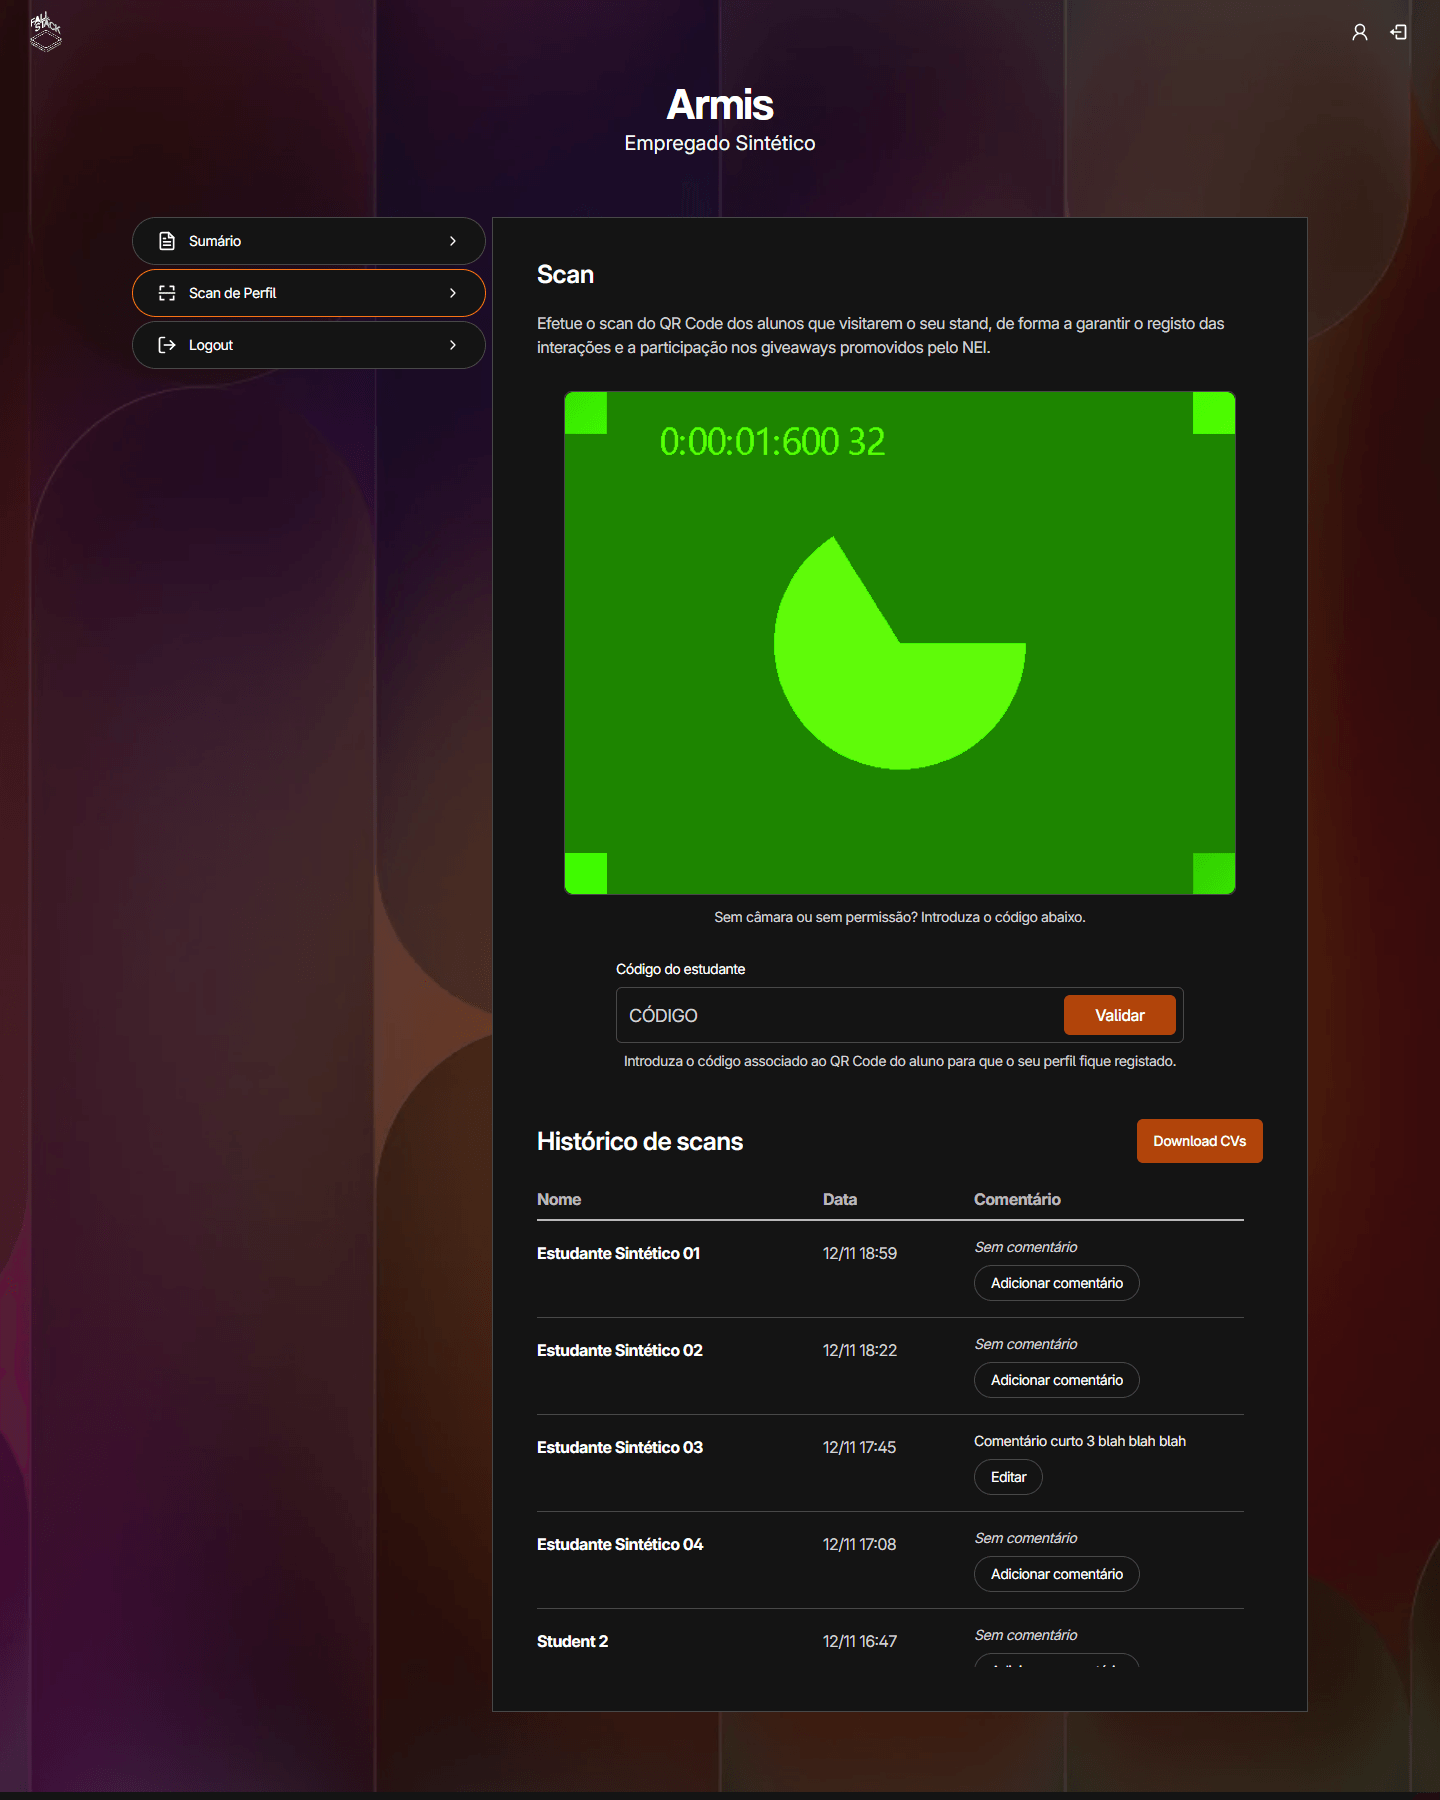
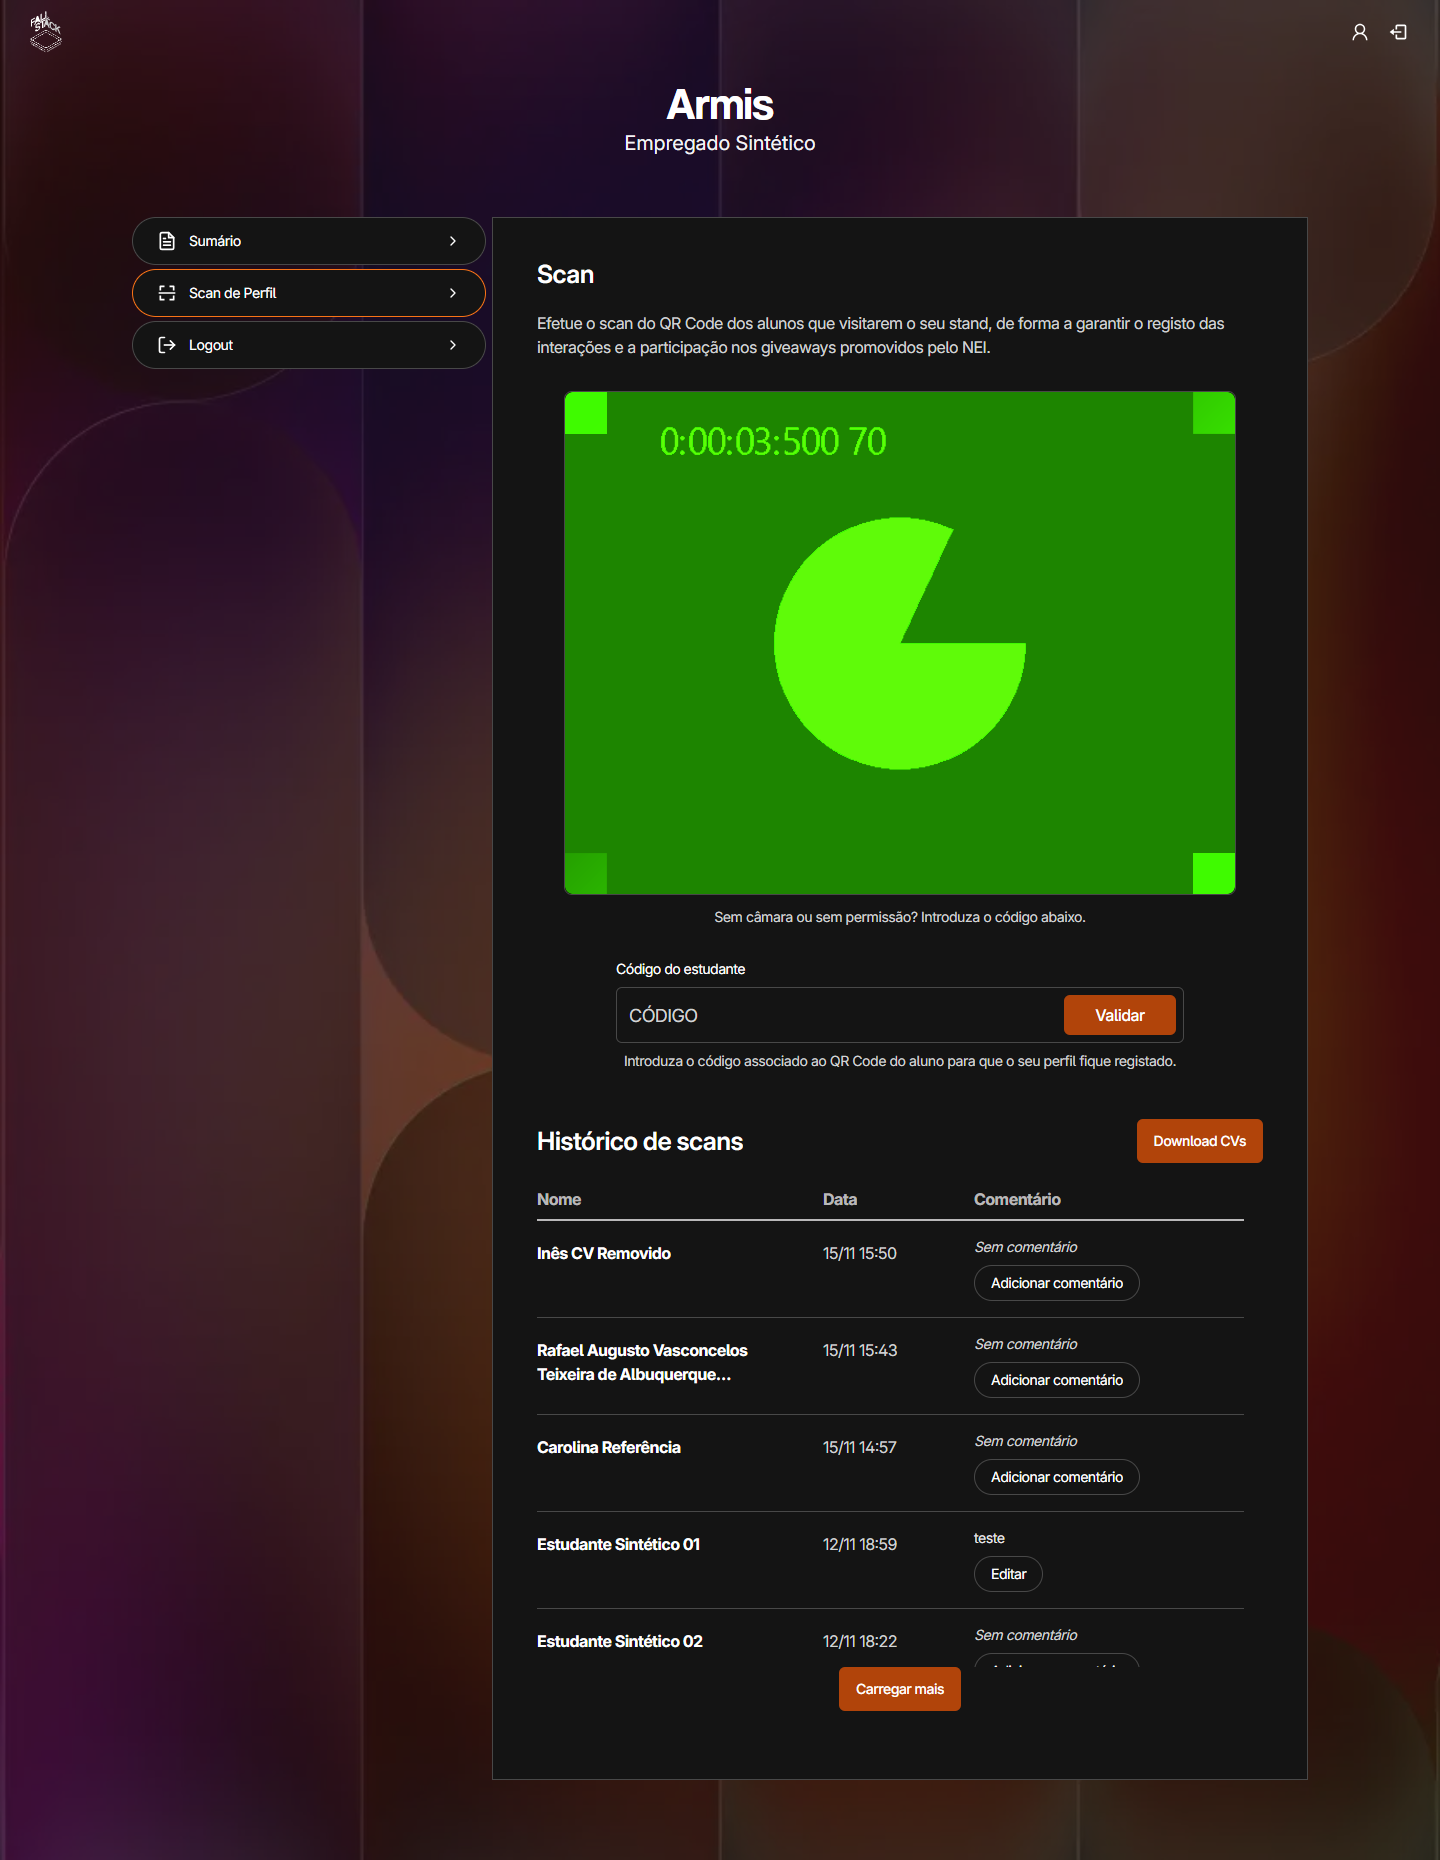
docs: record the review fixes in the #516 evidence

diff --git a/docs/verification/516/README.md b/docs/verification/516/README.md
@@ -5,6 +5,8 @@ that company employees reach.
 
 - **Before:** `dev` at 773f0fc and 991638f (12 November 2026).
 - **After:** this branch at 569818c (13 November 2026).
+- **Review fixes:** rechecked on 15 November 2026 after the fixes for
+  Dinis's review of 06423ba (mobile layout and focus, scanner messages).
 
 What changed: the dashboard and every student profile view now use the
 shared artwork and dark panels instead of the old `bgHero` artwork and white
@@ -20,7 +22,9 @@ in its own code. Routes, tokens and permissions are unchanged.
   emails appear in the captures.
 - Before captures: Zen/Firefox, real AuthNEI login. After captures and the
   sweep: headless Chrome with the `pnpm dev:session` identities and a fake
-  camera. All at DPR 1.
+  camera. Review rechecks: headless Edge with the same identities, the
+  built-in fake camera, and fake camera feeds showing generated QR codes.
+  All at DPR 1.
 - Viewports: 360 × 800, 400 × 900, 768 × 1024, 1440 × 900 and 1920 × 1080.
 
 ## Inventory
@@ -80,8 +84,28 @@ not part of this inventory.
 - **Typed-code messages covered the controls.** At 360 the message sat over
   the code field and Validar; at 1440 it covered the right end of the field.
   Validar also overlapped the typed text at 360, and repeated clicks stacked
-  identical messages. Now no message covers the field, Validar or the
-  camera, and repeats replace the message instead of stacking.
+  identical messages. See the next point for where messages show now.
+- **Messages over the camera.** The camera error toast covered part of the
+  camera box for 5 seconds, and scan errors would show in the same place.
+  Camera, scan and typed-code messages now show in one place under the
+  camera box, above the code field, instead of as toasts. See
+  [Messages](#messages-over-the-camera-and-controls).
+- **Mobile layout and focus.** Below `lg` the menu sat above the selected
+  panel, and choosing an entry left focus on the menu. The selected panel
+  now comes first with the menu under it, as on the student dashboard;
+  choosing an entry moves focus to the panel and, when the panel's start is
+  out of view, jumps to it.
+- **Admin employees saw the generic save error for a duplicate.** The
+  server answers 400 “Student already saved” for them instead of 409 (see
+  below); the scanner and typed code now show “Este estudante já foi
+  guardado anteriormente.” for both.
+- **“Already saved” flashed after a new scan.** The camera came back while
+  the preview loaded, read the same code again and got a duplicate. The
+  camera now stays off until the preview opens.
+- **Scan de Perfil scrolled past its end.** The scan history's
+  screen-reader labels were not clipped by its scroll box, adding the
+  list's full height below the page (3883 px of scroll for 1898 px of page
+  at 360). The page now ends at its content.
 - **Server errors appeared in English.** Save failures other than a
   duplicate now show one Portuguese message instead of the server's text.
 - **Student-addressed empty interests text.** The company-facing views said
@@ -91,22 +115,21 @@ not part of this inventory.
 
 ### Open, outside this task
 
-- **Six-character codes.** The typed-code field in
-  `CompanySavedProfilesSection` has `maxLength={4}`, so #514's six-character
-  codes cannot be entered. #514 (PR #555) changes that line.
-- **Duplicate saves by admin accounts.** `/api/saved` skips the duplicate
-  check for sessions with an admin role (`allowDuplicate`), so the database
-  answers 400 instead of the 409 that the scanner turns into “Este estudante
-  já foi guardado anteriormente.”. An employee who is also an admin sees the
-  generic save error. Tracked as a separate bug; duplicate checks here use an
-  employee without an admin role.
+- **Duplicate saves by admin accounts (server).** `/api/saved` skips the
+  duplicate check for sessions with an admin role (`allowDuplicate`), so the
+  database's one-save-per-company rule answers 400 instead of 409. The
+  company views now treat both as a duplicate; the server's status is
+  unchanged.
+- **Unknown Wallet passes use up the code lookup limit.** The scanner reads
+  a code in view again every few hundred milliseconds. Each read of an
+  unknown pass counts towards the 5-per-minute unknown-code limit, so about
+  a second in front of the camera refuses every lookup, valid codes
+  included, for the rest of the minute. Scans then show the generic scan
+  error; typed codes say “Demasiadas tentativas”.
 - **Access check on the student route.** A possible access-control gap on
   `/student/[...data]` was reported privately to the Infraestruturas
   Informáticas coordinators, as [`docs/SECURITY.md`](../../SECURITY.md)
   asks.
-- **Camera message over the camera box.** See
-  [Messages over the camera and controls](#messages-over-the-camera-and-controls).
-  Decision pending.
 - **404 digits below 3:1 on the artwork.** The orange `404` on the shared
   not-found page (`src/app/not-found.tsx`) averages 3.5–3.9:1 against the
   artwork but drops to 2.8:1 over its lightest areas (1.8:1 at 360). S2, S5
@@ -186,14 +209,16 @@ or white on dark panels (at least 6.5:1).
 Tab and Shift+Tab through every screen above at 360 and 1440, waiting for
 scrolling to finish after each key.
 
-| Check                          | Result                                                                                                                        |
-| ------------------------------ | ----------------------------------------------------------------------------------------------------------------------------- |
-| Order                          | Follows the reading order: top bar, menu, tab content, list rows (name, then its comment button), footer.                     |
-| Visible focus                  | Every stop in `<main>` matches `:focus-visible` and shows an outline.                                                         |
-| Traps                          | None. Every walk leaves `<main>` for the footer, and Shift+Tab returns to the top bar.                                        |
-| Hidden under the fixed top bar | Fixed. Shift+Tab used to hide the code field and Validar (360) and Download CVs (1440) under the bar; they now keep a margin. |
-| Focus after a typed-code error | Fixed. Invalid and duplicate codes used to drop focus to the page; it now returns to the code field.                          |
-| Comment editor                 | Opening moves focus to the comment field; Escape closes it and returns focus to “Editar comentário sobre …”.                  |
+| Check                          | Result                                                                                                                                                                                                                                                                                             |
+| ------------------------------ | -------------------------------------------------------------------------------------------------------------------------------------------------------------------------------------------------------------------------------------------------------------------------------------------------- |
+| Order                          | Follows the reading order: top bar, selected panel, list rows (name, then its comment button), menu, footer. The menu shows beside the panel from `lg`, but comes after it in the tab order, as on the student dashboard.                                                                          |
+| Visible focus                  | Every stop in `<main>` matches `:focus-visible` and shows an outline.                                                                                                                                                                                                                              |
+| Traps                          | None. Every walk leaves `<main>` for the footer, and Shift+Tab returns to the top bar.                                                                                                                                                                                                             |
+| Hidden under the fixed top bar | Fixed. Shift+Tab used to hide the code field and Validar (360) and Download CVs (1440) under the bar; they now keep a margin.                                                                                                                                                                      |
+| Focus after a typed-code error | Fixed. Invalid and duplicate codes used to drop focus to the page; it now returns to the code field.                                                                                                                                                                                               |
+| Comment editor                 | Opening moves focus to the comment field; Escape closes it and returns focus to “Editar comentário sobre …”.                                                                                                                                                                                       |
+| Choosing a menu entry          | Focus moves to the selected panel, so the next Tab is its first control. At 360, choosing Scan de Perfil from the menu under a long Sumário leaves the panel's start just under the top bar; at 1440 the page does not move. Pressing the current entry again leaves focus on it (component test). |
+| Carregar mais                  | Focus returns to the button after a page loads or fails, and moves to the panel after the last page (component tests).                                                                                                                                                                             |
 
 ### Accessible names
 
@@ -206,26 +231,29 @@ Code”, since the video itself has no name.
 
 ### Messages over the camera and controls
 
-Typed-code messages, triggered twice each to check that copies do not stack:
+All camera, scan and typed-code messages show in one place under the camera
+box and above the code field: one message at a time, announced as an alert,
+with no toast. Checked on 15 November 2026 at 360, 768 and 1440:
 
-| Message                       | 360 | 400 | 768 | 1440 | 1920 |
-| ----------------------------- | --- | --- | --- | ---- | ---- |
-| Empty: “Sem código inserido.” | ✓   | ✓   | ✓   | ✓    | ✓    |
-| Invalid: `ZZZZ`               | ✓   | ✓   | ✓   | ✓    | ✓    |
-| Duplicate: `Z101`             | ✓   | ✓   | ✓   | ✓    | ✓    |
+| Message                                            | From                         | 360 | 768 | 1440 |
+| -------------------------------------------------- | ---------------------------- | --- | --- | ---- |
+| Camera denied: “Não foi possível aceder à câmara…” | Camera                       | ✓   | ✓   | ✓    |
+| Unknown pass: “O código de estudante deste passe…” | Scan of `Z999`               | ✓   | ✓   | ✓    |
+| Already saved: “Este estudante já foi guardado…”   | Scan of `Z101`; typed `A123` | ✓   | ✓   | ✓    |
+| Save failed: “Não foi possível guardar o perfil…”  | Scan of a bad token          | ✓   | ✓   | ✓    |
+| Empty and invalid: “Sem código inserido.”, `ZZZZ`  | Typed code                   | ✓   | –   | –    |
 
-✓: one message, announced as an alert, covering none of the code field,
-Validar or the camera, with focus back in the code field.
+✓: the message starts 12 px below the camera box at every width, so it
+cannot cover the live preview, the code field or Validar. Typed codes
+return focus to the field; if the message is off screen when Validar is
+pressed, the page scrolls just enough to show it. While a code stays in
+front of the camera, its message stays put instead of blinking. A
+successful scan opens the preview with no message.
 
-Camera message: with the camera denied, “Não foi possível aceder à câmara…”
-covers the bottom of the empty camera box (78 px at 360; a 132 × 102 px
-corner at 1440) until it closes after 5 seconds. A QR scan error while the
-camera is running would appear in the same place. Decision pending.
-
-Other messages, checked at 360 and 1440: interests saved and not saved (D3)
-and the CV export error (D7) each show one toast; the export button is usable
-again afterwards. CV export success downloads `cvs-guardados.zip` with the
-Z101 and Z103 CVs and `dados.csv`.
+Other messages, checked at 360 and 1440 on 13 November: interests saved and
+not saved (D3) and the CV export error (D7) each show one toast; the export
+button is usable again afterwards. CV export success downloads
+`cvs-guardados.zip` with the Z101 and Z103 CVs and `dados.csv`.
 
 ## Checks
 
@@ -263,6 +291,11 @@ none of the student's data in the response:
 In a production build (`pnpm start`), the `/student/Z104` 404 and its
 client-navigation response also contain none of Z104's data, and Student and
 Admin get the 404 on `/dashboard`.
+
+Review fixes, 15 November 2026: Prettier, ESLint, `pnpm typecheck` and the
+component tests (`vitest run src/components`) pass on Windows; each fix has
+a test that fails without it. The full `pnpm test` with the database runs
+in CI.
 
 Not exercised here: a real camera and a real phone.
 
@@ -314,6 +347,10 @@ Not exercised here: a real camera and a real phone.
 
 ## After captures
 
+D2 and D4–D6 were retaken on 15 November 2026 for the new mobile layout.
+Armis now also has three saves from #487's synthetic data at the top of the
+lists (`Y403`, `Y4Q7K2`, `Z100`).
+
 ### D2: Sumário with saved students
 
 ![Sumário at 360](after-D2-360.png)
@@ -360,7 +397,7 @@ Not exercised here: a real camera and a real phone.
 
 - S1 and S6 look the same as S4 (S6 without “Voltar ao painel”). S5 and D8
   show the same 404 page.
-- Messages (D3, D4 denied, D5, D7) were checked at 360 and 1440; see
+- Messages (D3, D4 denied, D5, D7, scan errors) were checked in text; see
   [Messages over the camera and controls](#messages-over-the-camera-and-controls).
 - D1 and the empty scan history need Armis's `A123` and `A456` saves
   removed; the empty-list text is covered by the component tests.
